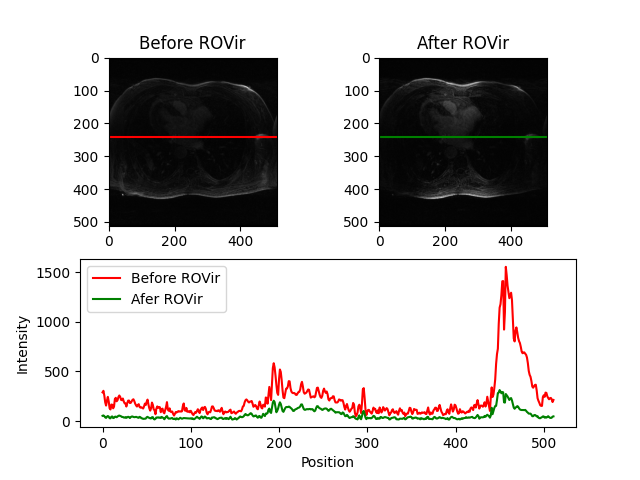
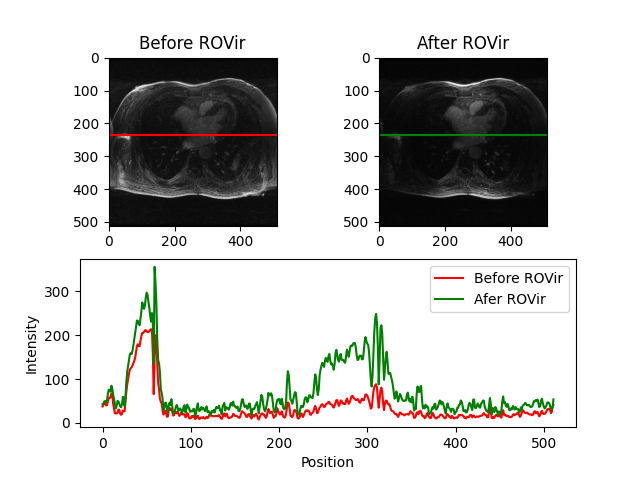
Histogram

diff --git a/ROVir/main.py b/ROVir/main.py
@@ -11,14 +11,16 @@ import h5py
 import cv2 as cv
 import scipy.misc
 import matplotlib.image as mpimg
+import matplotlib
+matplotlib.use('tkagg')
 
 dirs = [os.getcwd(), "data"]
 data_path = os.path.join(*dirs)
 
-A_W = slice(100, 350)
-B1_W = slice(0, 90)
+A_W = slice(200, 400)
+B1_W = slice(0, 150)
 B2_W = slice(430, -1)
-A_H = slice(120, 290)
+A_H = slice(120, 300)
 B1_H = slice(80, 450)
 
 LINE = 300
@@ -30,6 +32,21 @@ regions = [A_W, A_H, B1_W, B1_H, B2_W]
 H_W = slice(120, 310)
 H_H = slice(230, 400)
 
+def window_image(image, window_center, window_width):
+
+    img_min = window_center - window_width // 2
+
+    img_max = window_center + window_width // 2
+
+    window_image = image.copy()
+
+    window_image[window_image < img_min] = img_min
+
+    window_image[window_image > img_max] = img_max
+
+
+
+    return window_image
 
 def main():
 
@@ -40,10 +57,14 @@ def main():
     width = img.shape[1]
     num_coils = img.shape[2]
     # lowf = int(input("lowf = "))
-    lowf = 12
+    lowf = 10
 
-    img_np = np.array(img.dataobj)
-    img_np = np.flipud(img_np).copy()
+    img_np = np.array(img.dataobj) 
+    img_np = np.flip(img_np, [0,1])
+
+    for i in range(np.min(img_np.shape)):
+        img_np[...,i] = window_image(img_np[...,i], 100, 1500)
+
 
     prev_img = combine_images(img_np)
 
@@ -95,7 +116,7 @@ def main():
     
     plot_intensities(
         prev_img, new_img, 
-        242, save=True
+        235, save=True
     )
     plt.tight_layout()
     plt.show()

diff --git a/ROVir/methods/ROVir.py b/ROVir/methods/ROVir.py
@@ -11,7 +11,7 @@ def ROVir(coils, regions, lowf):
 
     print("Filtering the image...")
     #w_coils = coils*filter_coils(coils)
-    w_coils = filter_coils(coils, 20)
+    w_coils = filter_coils(coils, 10)
 
     plot_coils(w_coils)
     HEIGHT, WIDTH, NCOILS = w_coils.shape
